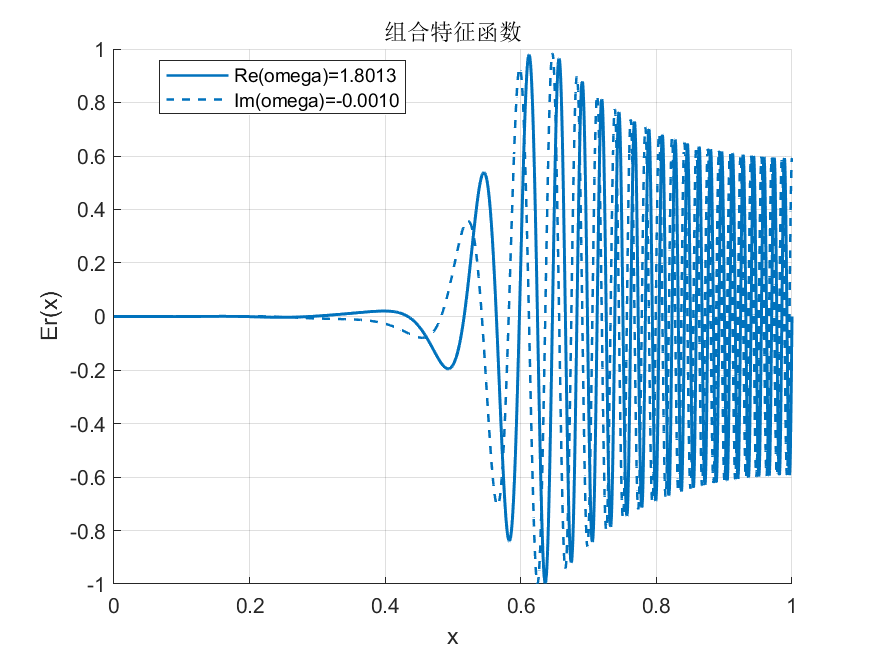
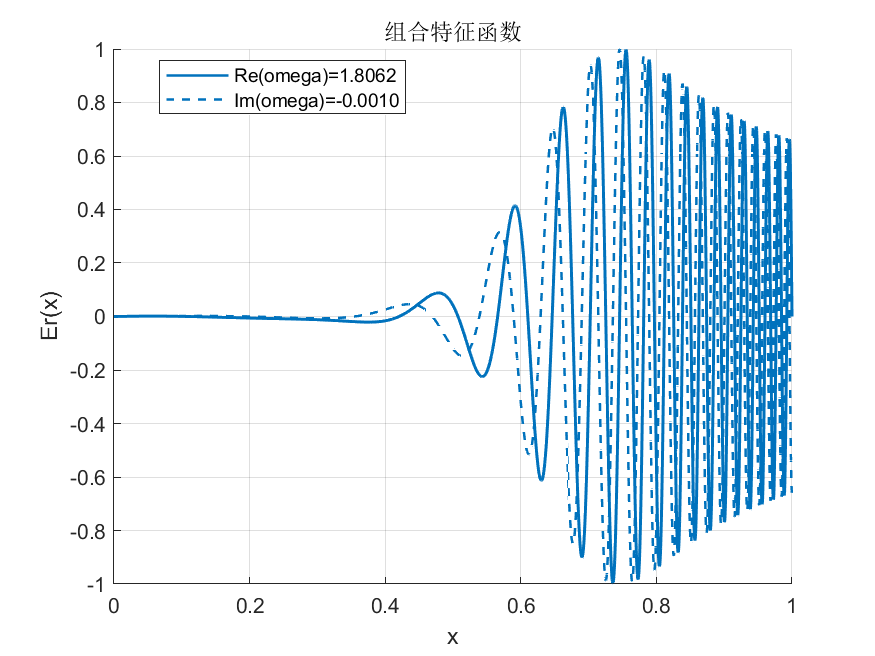
fsolve 不在复数域虚部寻找残差向量的根

Changed region(s): [[0.216, 0.061, 0.9257, 0.8841], [0.432, 0.0915, 0.4629, 0.122]]

diff --git a/matlab-solve/gao-ver/shootev_svd.m b/matlab-solve/gao-ver/shootev_svd.m
@@ -1,0 +1,194 @@
+function tt = shootev_svd()
+    format long;
+    tol = 1.5e-4;
+    m = 1;
+    N = 100; % 离散化点数
+    omg_log = zeros(1, m) + 1i * zeros(1, m);
+    omega_initial = 1.8 - 0.001i;
+    % 创建plots目录（如果不存在）
+    if ~exist('plots', 'dir')
+        mkdir('plots');
+    end
+    % 初始化参数
+    deri = 0.0001 + 0.00001i;
+    options = odeset('AbsTol', 1e-8, 'RelTol', 1e-8, 'OutputFcn',[]); % 与原始代码相同的ODE选项
+
+    % 预存储特征函数数据用于组合绘图
+    all_Er = cell(1, m);
+    all_x = cell(1, m);
+
+    for n = 1:m
+        % 使用 fminsearch 优化最小奇异值
+        options_optim = optimset('Display', 'iter', 'TolX', tol, 'TolFun', tol);
+        omega = fminsearch(@(omega) svd_objective(omega, N), omega_initial, options_optim);
+        
+        omg_log(n) = omega;
+        omega_initial = omega + 0.1; % 更新初始猜测
+        
+        % ========== 添加绘图部分 ==========
+        % 使用找到的特征值求解ODE
+        [x, Er] = ode15s(@(x, Er) evfun(x, Er, omega), [0, 1], [0, deri], options);
+        
+        % 存储数据用于组合绘图
+        all_Er{n} = Er(:,1);
+        all_x{n} = x;
+        
+        % 单个特征函数绘图
+        fig = figure('Visible', 'off');
+        plot(x, real(Er(:,1)), 'LineWidth', 1.5, 'DisplayName', '实部');
+        hold on;
+        plot(x, imag(Er(:,1)), 'LineWidth', 1.5, 'DisplayName', '虚部');
+        title(sprintf('特征函数 (omega=%.6f + %.6fi)', real(omega), imag(omega)));
+        xlabel('x');
+        ylabel('Er(x)');
+        legend('show');
+        grid on;
+        saveas(fig, fullfile('plots', sprintf('svd_eigenfunc_%d.png', n)));
+        close(fig);
+    end
+    % ========== 组合绘图 ==========
+    composite_fig = figure('Visible', 'off');
+    hold on;
+    colors = lines(m);
+        
+    for n = 1:m
+        % 获取归一化后的特征函数
+        Er_normalized = all_Er{n} / max(abs(all_Er{n}));
+        
+        % 绘制实部和虚部
+        plot(all_x{n}, real(Er_normalized), 'Color', colors(n,:), ...
+            'LineWidth', 1.2, 'DisplayName', sprintf('Re(ω)=%.4f', real(omg_log(n))));
+        plot(all_x{n}, imag(Er_normalized), 'Color', colors(n,:), ...
+            'LineStyle', '--', 'LineWidth', 1.2, 'DisplayName', sprintf('Im(ω)=%.4f', imag(omg_log(n))));
+    end
+        
+    title('组合特征函数 (SVD方法)');
+    xlabel('x');
+    ylabel('归一化Er(x)');
+    legend('show', 'Location', 'best');
+    grid on;
+    saveas(composite_fig, fullfile('plots', 'svd_composite_eigenfuncs.png'));
+    close(composite_fig);
+    tt = omg_log;
+    disp('找到的特征值:');
+    disp(tt);
+end
+
+function residual = svd_objective(omega, N)
+    K = construct_matrix(omega, N);
+    [~, S, ~] = svd(K);
+    sigma_min = min(diag(S));
+    residual = sigma_min;
+end
+
+function K = construct_matrix(omega, N)
+    dx = 1/(N-1);
+    x = linspace(0, 1, N)';
+    K = zeros(N, N);
+    
+    for i = 2:N-1
+        [a1, a3] = compute_coefficients(x(i), omega);
+        K(i, i-1) = -a3/(a1*dx^2);
+        K(i, i)   = 2*a3/(a1*dx^2);
+        K(i, i+1) = -a3/(a1*dx^2);
+    end
+    
+    K(1, 1) = 1;
+    K(N, N) = 1;
+end
+
+function [a1, a3] = compute_coefficients(x, omg_val)
+    % 从原函数 evfun 中提取系数计算逻辑
+    rho0 = 0.01;
+    tau = 1.0;
+    q = 1.5*(1.0+x);
+    T = 1.0*(1.005-x);
+
+    zeta_val = q*omg_val/sqrt(T);
+    Zdf = -2*dawson(zeta_val) + 1i*sqrt(pi)*exp(-zeta_val.^2);
+    Q0 = -Zdf;
+
+    zeta_val = q*omg_val/(sqrt(T)*2.0);
+    Zdf = -2*dawson(zeta_val) + 1i*sqrt(pi)*exp(-zeta_val.^2);
+    R0 = -1.0/2.0*Zdf;
+    zeta_val = q*omg_val/sqrt(T);
+    rho = sqrt(T)*rho0;
+    a1 = rho*rho;
+    Q1 = -zeta_val+zeta_val^2*Q0;
+    Q2 = -1.0/2.0*zeta_val+zeta_val^2*Q1;
+    Q3 = Q2*zeta_val^2-3.0/4.0*zeta_val;
+    Q4 = Q3*zeta_val^2-15.0/8.0*zeta_val;
+    R1 = 1.0/4.0*(-zeta_val+zeta_val^2*R0);
+    R2 = 1.0/4.0*(-zeta_val/2.0+zeta_val^2*R1);
+    R3 = 1.0/4.0*(zeta_val^2*R2-3.0/4.0*zeta_val);
+    R4 = 1.0/4.0*(zeta_val^2*R3-15.0/8.0*zeta_val);
+    lexpr1 = 2.0*(R1+R0/2.0)-(Q1+Q0/2.0);
+    lexpr2 = 2.0*(R2+R1+R0/2.0)-(Q2+Q1+Q0/2.0);
+    lexpr3 = 4.0*(R3+3.0*R2/2.0+3.0*R1/2.0+3.0*R0/4.0)- ...
+        (Q3+3.0*Q2/2.0+3.0*Q1/2.0+3.0*Q0/4.0);
+    lexpr4 = 4.0*(R4+2.0*R3+3.0*R2+3.0*R1+3.0*R0/2.0)- ...
+        (Q4+2.0*Q3+3.0*Q2+3.0*Q1+3.0*Q0/2.0);
+    Gexpr = 1.0/q^2-1.0/zeta_val*(Q2+Q1+Q0/2.0)- ...
+        tau*(Q1+Q0/2.0)^2/(1.0+tau*(1.0-zeta_val*Q0));
+    Aexpr = 3.0/(4.0*q^2)-1.0/zeta_val*(Q2+2.0*Q1+ ...
+        3.0*Q0/2.0)-tau*(Q1+Q0/2.0)*(2.0*(Q1+Q0)+zeta_val*Q0* ...
+        (Q1+Q0/2.0)/(1.0+tau*(1.0-zeta_val*Q0)))/(1.0+tau*(1.0-zeta_val*Q0));
+    Bexpr = lexpr4/(2.0*zeta_val^3)+tau*lexpr2*lexpr2/(2.0*zeta_val^2* ...
+        (1.0+tau*(1.0-zeta_val*R0)))+tau*(Q1+Q0/2.0)*( ...
+        lexpr3/zeta_val^2 + tau*lexpr1*lexpr2/(zeta_val*(1.0+tau*(1.0-zeta_val*R0))) + ...
+        (1.0-tau^2)*(Q1+Q0/2.0)*lexpr1*lexpr1/(2.0*(1.0+tau*(1.0-zeta_val*R0))* ...
+        (1.0+tau*(1.0-zeta_val*Q0))) + (Q1+Q0/2.0)*lexpr2/(zeta_val*(1.0+ ...
+        tau*(1.0-zeta_val*Q0))) + tau*(Q1+Q0/2.0)*(Q2+Q1+Q0/2.0)/ ...
+        (2.0*zeta_val*(1.0+tau*(1.0-zeta_val*Q0))) )/(1.0+tau*(1.0-zeta_val*Q0));
+
+    a3 = 2.0*Gexpr/(Aexpr+q^2*Bexpr);
+end
+
+function yy = evfun(x, Er, omg_val)
+    % 预先计算依赖于 x 和 omg_val 的量
+    rho0 = 0.01;
+    tau = 1.0;
+    q = 1.5*(1.0+x);
+    T = 1.0*(1.005-x);
+
+    zeta_val = q*omg_val/sqrt(T);
+    Zdf = -2*dawson(zeta_val) + 1i*sqrt(pi)*exp(-zeta_val.^2);
+    Q0 = -Zdf;
+
+    zeta_val = q*omg_val/(sqrt(T)*2.0);
+    Zdf = -2*dawson(zeta_val) + 1i*sqrt(pi)*exp(-zeta_val.^2);
+    R0 = -1.0/2.0*Zdf;
+    zeta_val = q*omg_val/sqrt(T);
+    rho = sqrt(T)*rho0;
+    a1 = rho*rho;
+    Q1 = -zeta_val+zeta_val^2*Q0;
+    Q2 = -1.0/2.0*zeta_val+zeta_val^2*Q1;
+    Q3 = Q2*zeta_val^2-3.0/4.0*zeta_val;
+    Q4 = Q3*zeta_val^2-15.0/8.0*zeta_val;
+    R1 = 1.0/4.0*(-zeta_val+zeta_val^2*R0);
+    R2 = 1.0/4.0*(-zeta_val/2.0+zeta_val^2*R1);
+    R3 = 1.0/4.0*(zeta_val^2*R2-3.0/4.0*zeta_val);
+    R4 = 1.0/4.0*(zeta_val^2*R3-15.0/8.0*zeta_val);
+    lexpr1 = 2.0*(R1+R0/2.0)-(Q1+Q0/2.0);
+    lexpr2 = 2.0*(R2+R1+R0/2.0)-(Q2+Q1+Q0/2.0);
+    lexpr3 = 4.0*(R3+3.0*R2/2.0+3.0*R1/2.0+3.0*R0/4.0)- ...
+        (Q3+3.0*Q2/2.0+3.0*Q1/2.0+3.0*Q0/4.0);
+    lexpr4 = 4.0*(R4+2.0*R3+3.0*R2+3.0*R1+3.0*R0/2.0)- ...
+        (Q4+2.0*Q3+3.0*Q2+3.0*Q1+3.0*Q0/2.0);
+    Gexpr = 1.0/q^2-1.0/zeta_val*(Q2+Q1+Q0/2.0)- ...
+        tau*(Q1+Q0/2.0)^2/(1.0+tau*(1.0-zeta_val*Q0));
+    Aexpr = 3.0/(4.0*q^2)-1.0/zeta_val*(Q2+2.0*Q1+ ...
+        3.0*Q0/2.0)-tau*(Q1+Q0/2.0)*(2.0*(Q1+Q0)+zeta_val*Q0* ...
+        (Q1+Q0/2.0)/(1.0+tau*(1.0-zeta_val*Q0)))/(1.0+tau*(1.0-zeta_val*Q0));
+    Bexpr = lexpr4/(2.0*zeta_val^3)+tau*lexpr2*lexpr2/(2.0*zeta_val^2* ...
+        (1.0+tau*(1.0-zeta_val*R0)))+tau*(Q1+Q0/2.0)*( ...
+        lexpr3/zeta_val^2 + tau*lexpr1*lexpr2/(zeta_val*(1.0+tau*(1.0-zeta_val*R0))) + ...
+        (1.0-tau^2)*(Q1+Q0/2.0)*lexpr1*lexpr1/(2.0*(1.0+tau*(1.0-zeta_val*R0))* ...
+        (1.0+tau*(1.0-zeta_val*Q0))) + (Q1+Q0/2.0)*lexpr2/(zeta_val*(1.0+ ...
+        tau*(1.0-zeta_val*Q0))) + tau*(Q1+Q0/2.0)*(Q2+Q1+Q0/2.0)/ ...
+        (2.0*zeta_val*(1.0+tau*(1.0-zeta_val*Q0))) )/(1.0+tau*(1.0-zeta_val*Q0));
+
+    a3 = 2.0*Gexpr/(Aexpr+q^2*Bexpr);
+
+    yy = [Er(2); -a3/a1 * Er(1)];
+end

diff --git a/matlab-solve/gao-ver/shoot_p.m b/matlab-solve/gao-ver/shoot_p.m
@@ -1,6 +1,6 @@
-function tt = shootev()
+function tt = shoot_p()
     format long;
-    tol = 1.5e-4;
+    % tol = 1.5e-4;
     % 静默配置ODE求解器选项
     options = odeset('AbsTol', 1e-8, 'RelTol', 1e-8); %精度
 

diff --git a/matlab-solve/gao-ver/shoot_pbvp4c.m b/matlab-solve/gao-ver/shoot_pbvp4c.m
@@ -1,6 +1,6 @@
-function tt = shootev()
+function tt = shoot_pbvp4c()
     format long;
-    tol = 1.5e-4;
+    % tol = 1.5e-4;
 
     % 如果不存在，则创建plots目录
     if ~exist('plots', 'dir')

diff --git a/matlab-solve/gao-ver/shootev_fsolve.m b/matlab-solve/gao-ver/shootev_fsolve.m
@@ -1,4 +1,4 @@
-function tt = shootev()
+function tt = shootev_fsolve()
     format long;
     tol = 1.5e-4;
     m = 1;

diff --git a/matlab-solve/gao-ver/shootev_inf.m b/matlab-solve/gao-ver/shootev_inf.m
@@ -1,4 +1,4 @@
-function tt = shootev()
+function tt = shootev_inf()
     format long;
     tol = 1.5e-4;
     m = 12;
